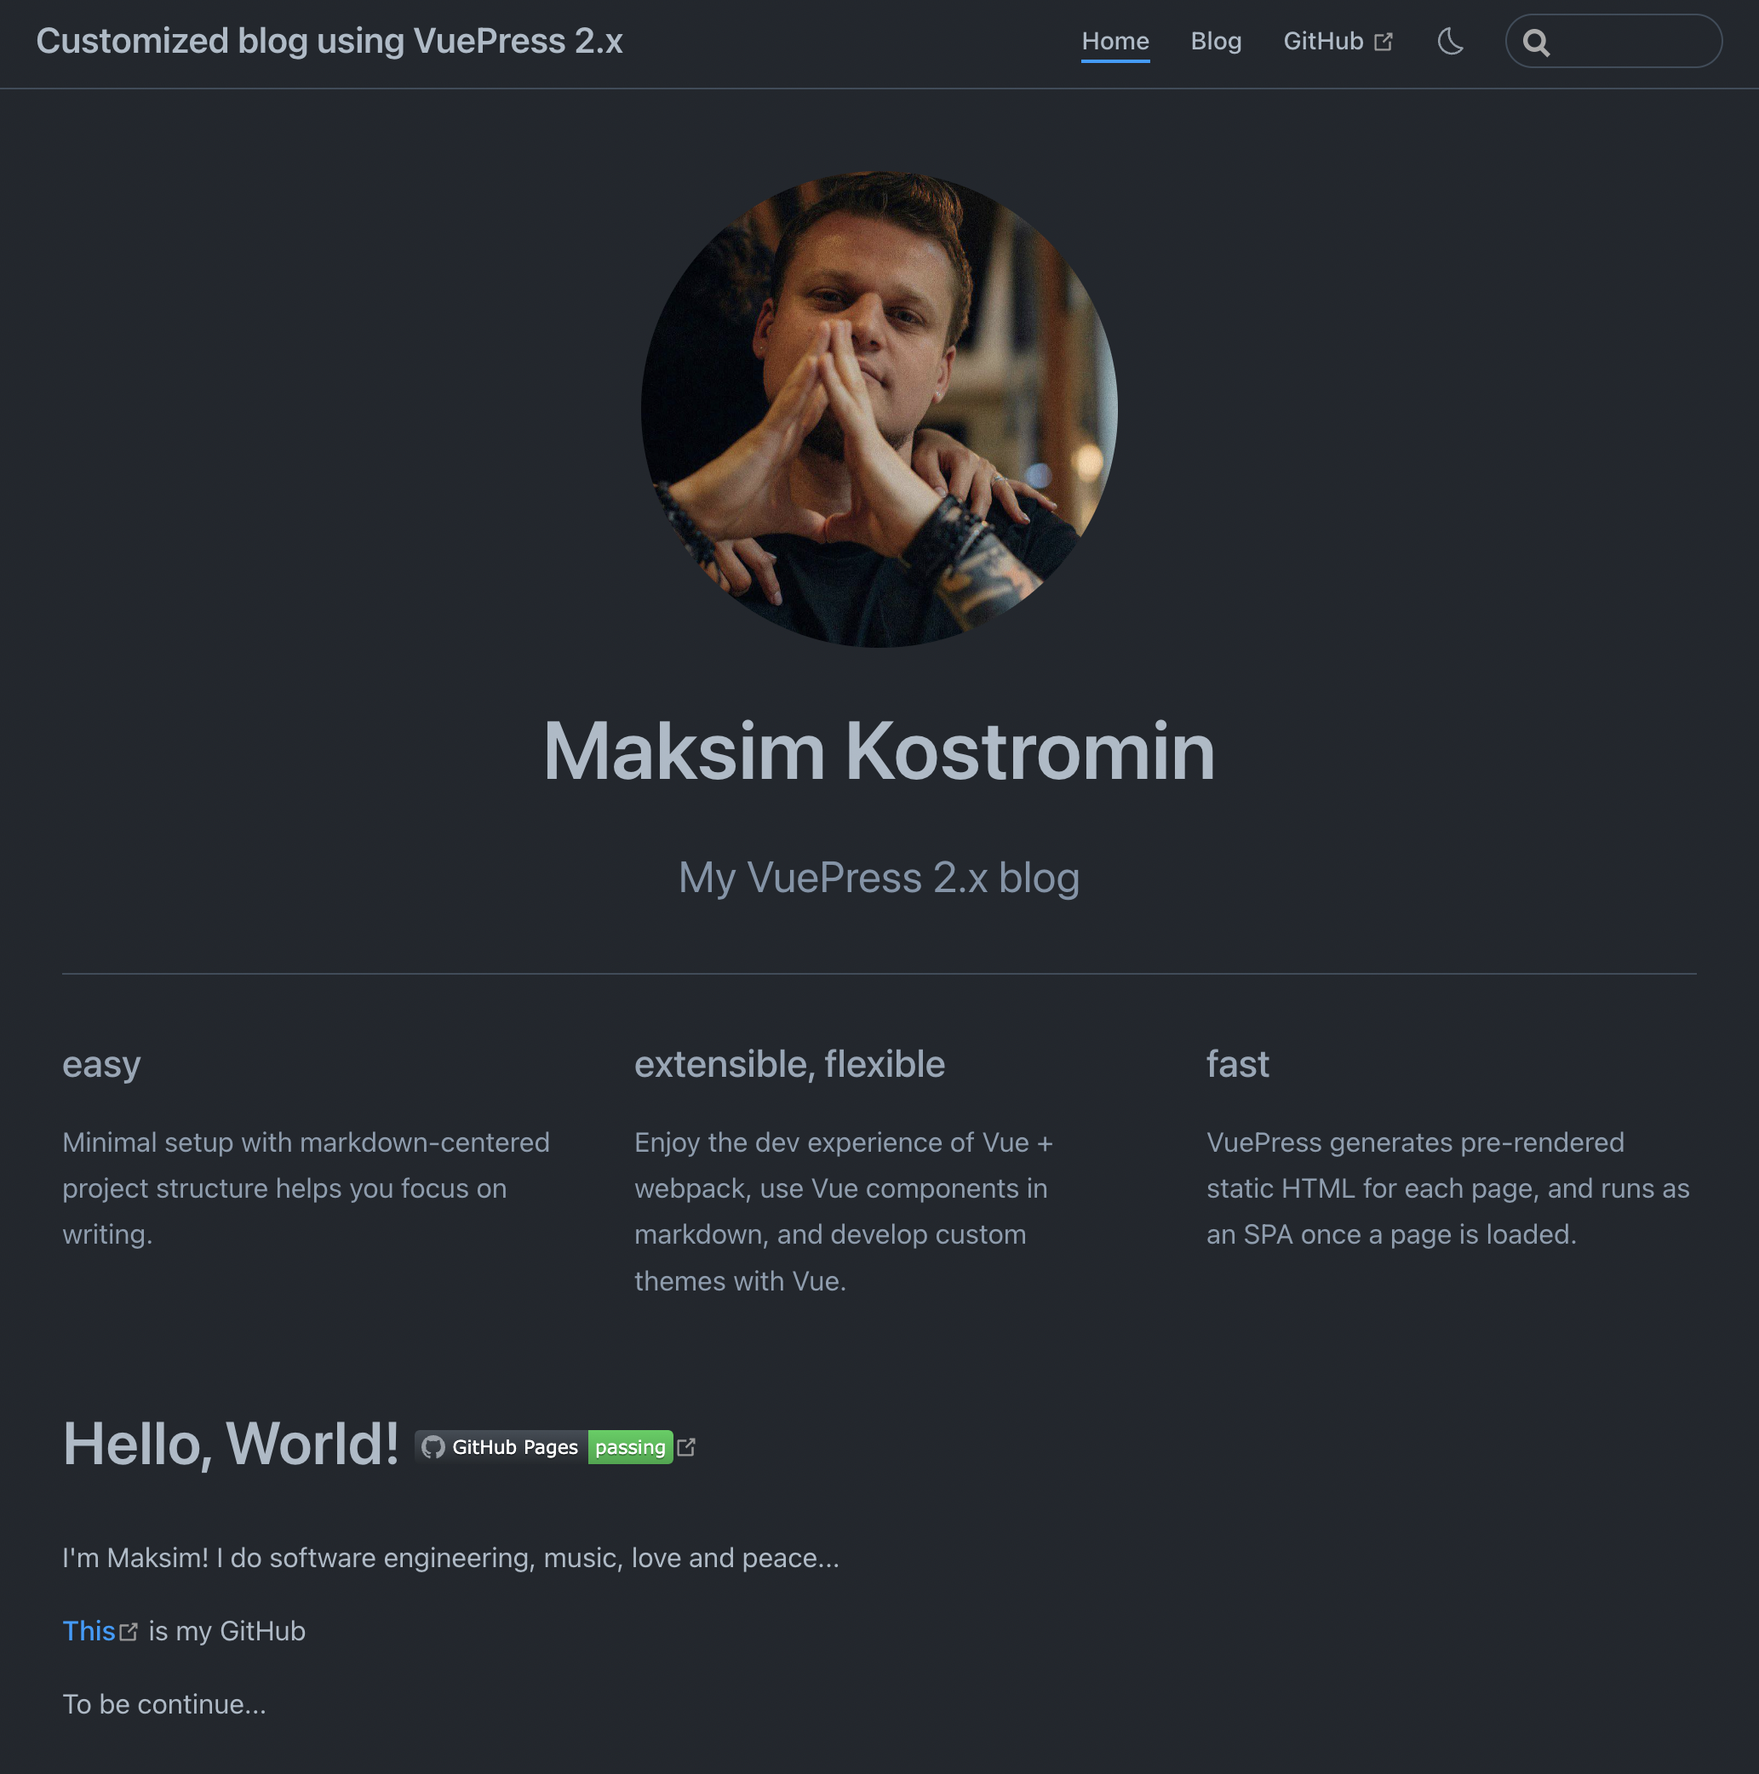
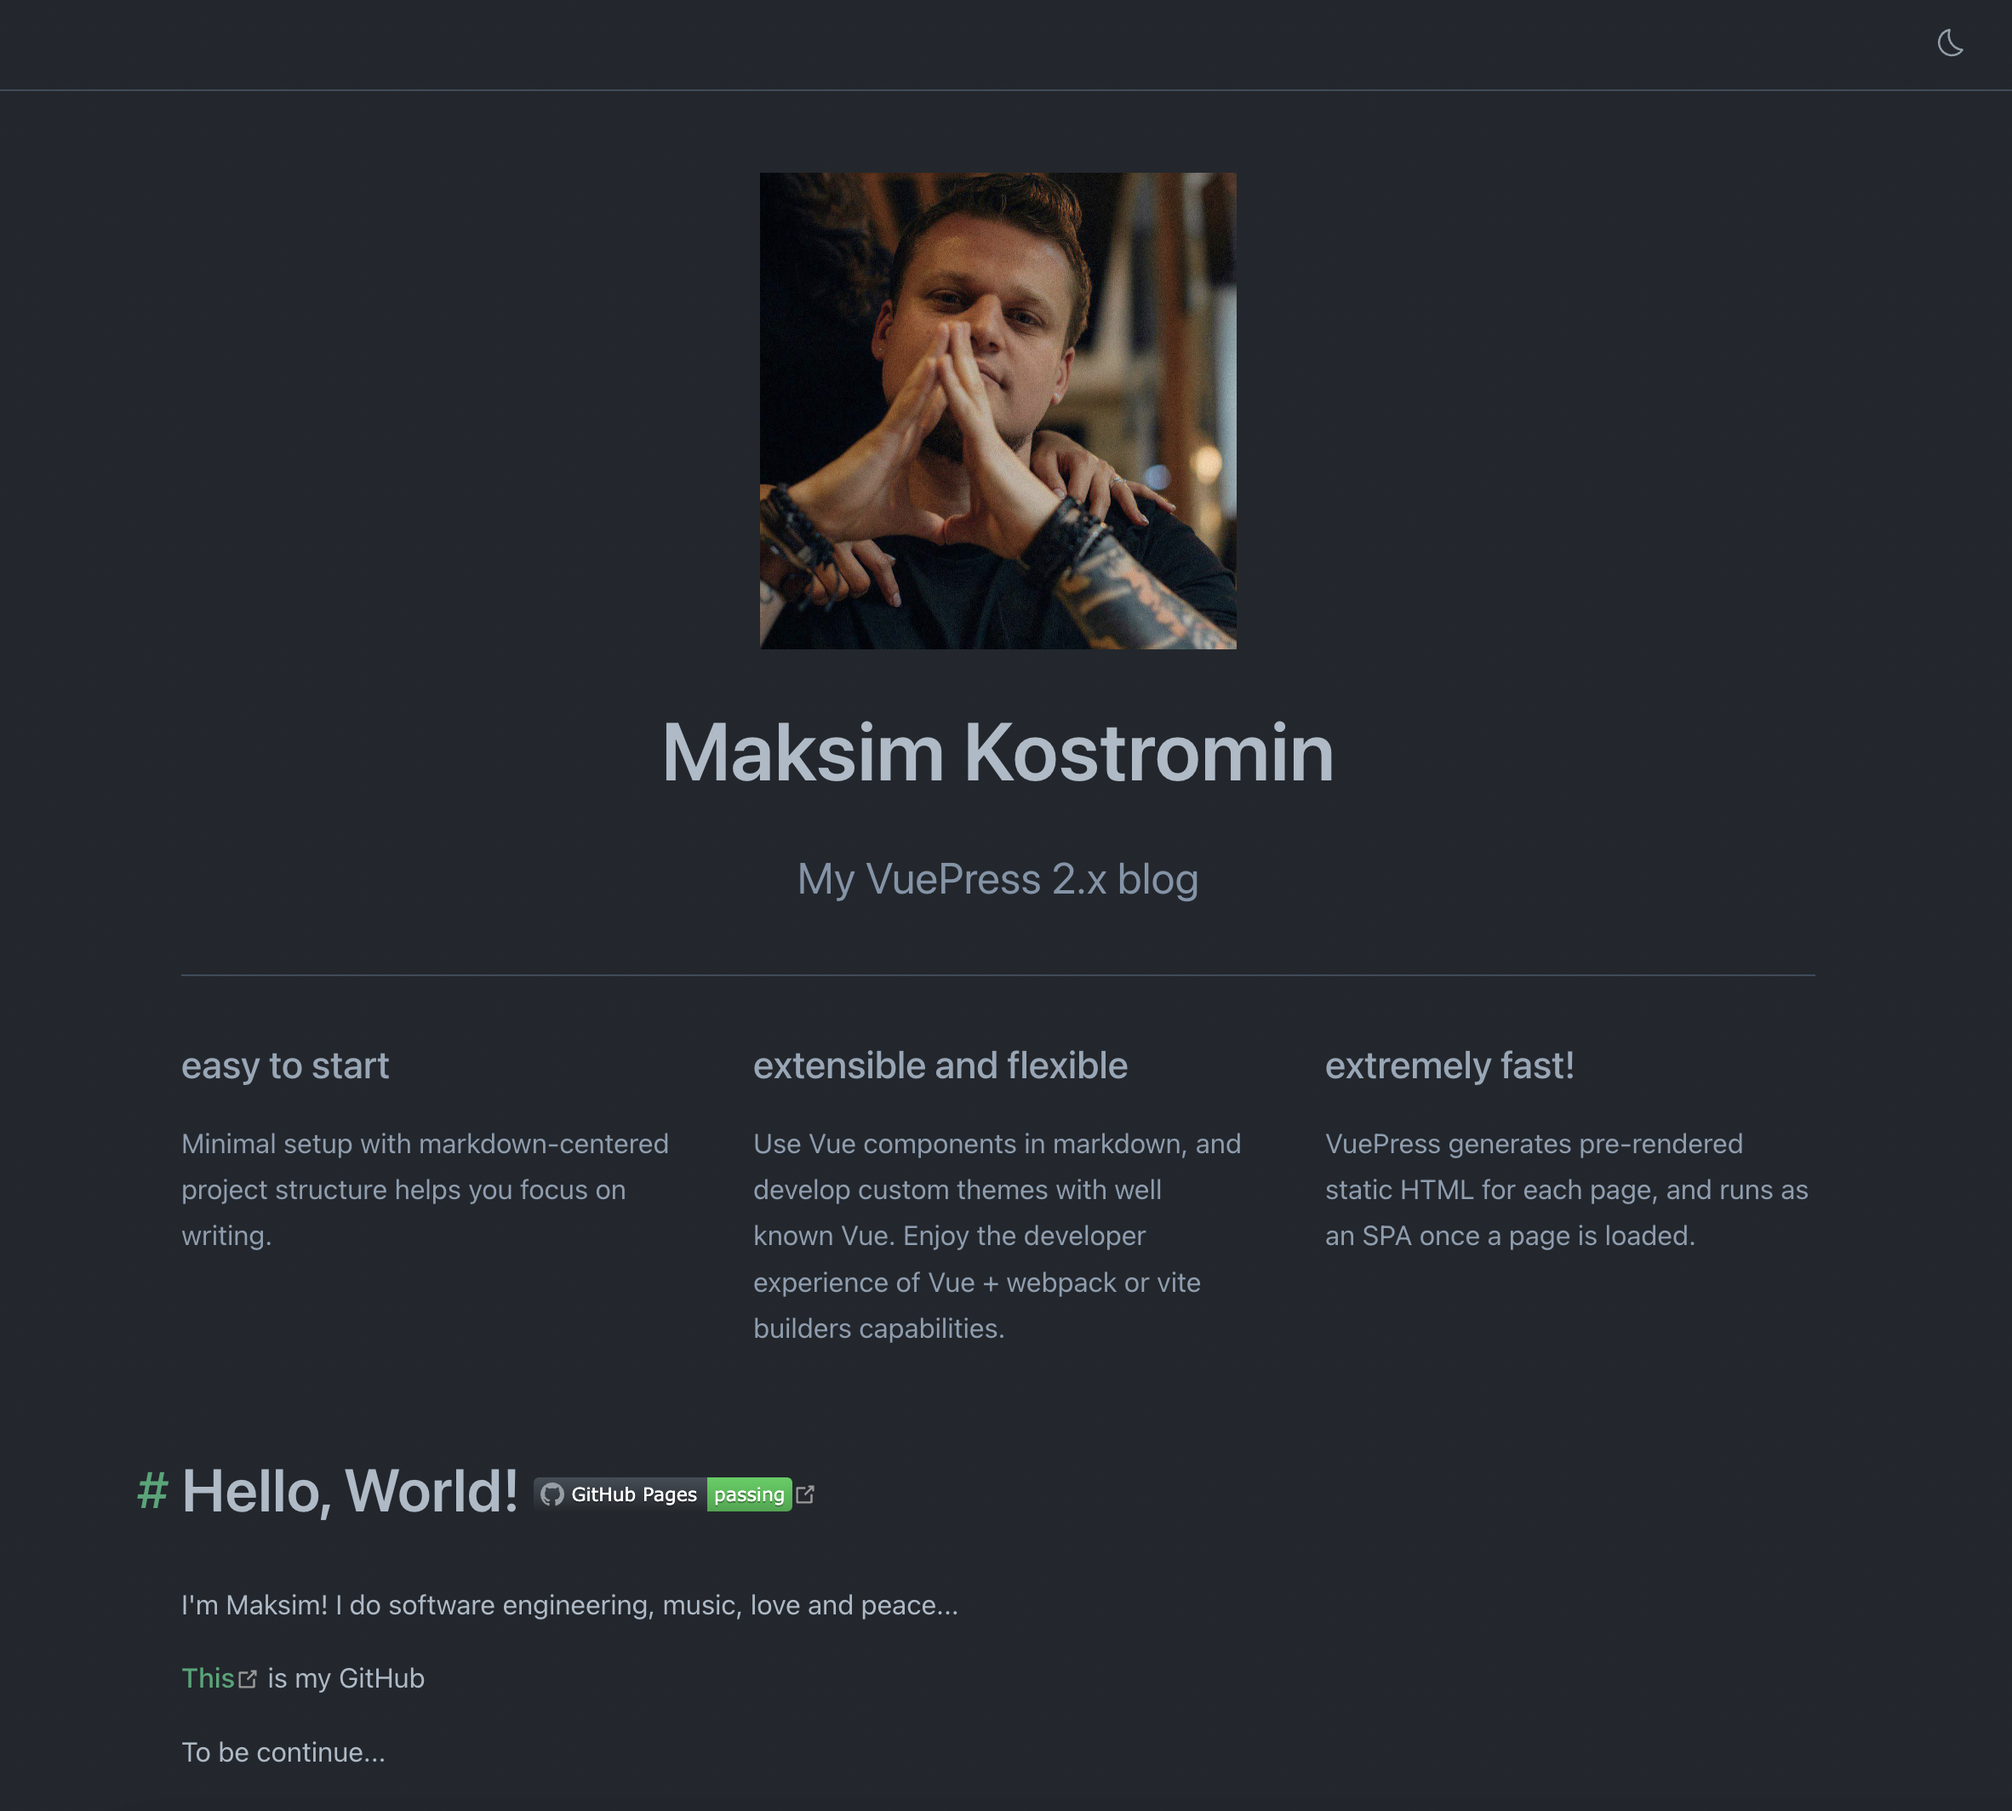
Move "To be continue..." phrase into Blog component. Add TODOs.

diff --git a/.vuepress/components/Posts.vue b/.vuepress/components/Posts.vue
@@ -5,6 +5,7 @@
       <Post :path="page.path" :title="page.title" />
     </p>
     <p v-if="!pages.length">TBD...</p>
+    <p>To be continue...</p>
   </div>
 </template>
 

diff --git a/blog/2022-08-08-vuepress-2-getting-started/README.md b/blog/2022-08-08-vuepress-2-getting-started/README.md
@@ -128,11 +128,12 @@ heroImage: me-2020-11.jpeg
 heroText: Maksim Kostromin
 tagline: My VuePress 2.x blog
 features:
-- title: Easy
+- title: easy to start
   details: Minimal setup with markdown-centered project structure helps you focus on writing.
-- title: Flexible
-  details: Enjoy the dev experience of Vue + webpack, use Vue components in markdown, and develop custom themes with Vue.
-- title: Fast
+- title: extensible and flexible
+  details: Use Vue components in markdown, and develop custom themes with well known Vue. Enjoy the developer experience of Vue + webpack
+           or vite builders capabilities.
+- title: extremely fast!
   details: VuePress generates pre-rendered static HTML for each page, and runs as an SPA once a page is loaded.
 ---
 
@@ -168,6 +169,14 @@ Open [http://localhost:8080/](http://localhost:8080/) page to see results:
 
   </CodeGroupItem>
 </CodeGroup>
+
+## TODO
+
+* CSS: Make home page picture in a circle
+* VuePress configure: Customize navbar
+* Next post: Add custom local theme with Layer and Footer registered components
+* Next post: Add more blog posts, use globs to autoconfigure blog sidebar and page plugin
+* Next post: Use page plugin to create custom reusable blog posts component to be used on home and blog pages
 
 ## Resources and links
 

diff --git a/README.md b/README.md
@@ -6,11 +6,12 @@ tagline: My VuePress 2.x blog
 actionText: Read blog →
 actionLink: /blog/README.md
 features:
-- title: easy
+- title: easy to start
   details: Minimal setup with markdown-centered project structure helps you focus on writing.
-- title: extensible, flexible
-  details: Enjoy the dev experience of Vue + webpack, use Vue components in markdown, and develop custom themes with Vue.
-- title: fast
+- title: extensible and flexible
+  details: Use Vue components in markdown, and develop custom themes with well known Vue. Enjoy the developer experience of Vue + webpack
+           or vite builders capabilities.
+- title: extremely fast!
   details: VuePress generates pre-rendered static HTML for each page, and runs as an SPA once a page is loaded.
 ---
 
@@ -19,7 +20,5 @@ features:
 I'm Maksim! I do software engineering, music, love and peace...
 
 [This](https://github.com/daggerok) is my GitHub
-
-To be continue...
 
 <Posts />

diff --git a/blog/README.md b/blog/README.md
@@ -1,5 +1,3 @@
 # Blog
 
 <Posts />
-
-To be continue...
